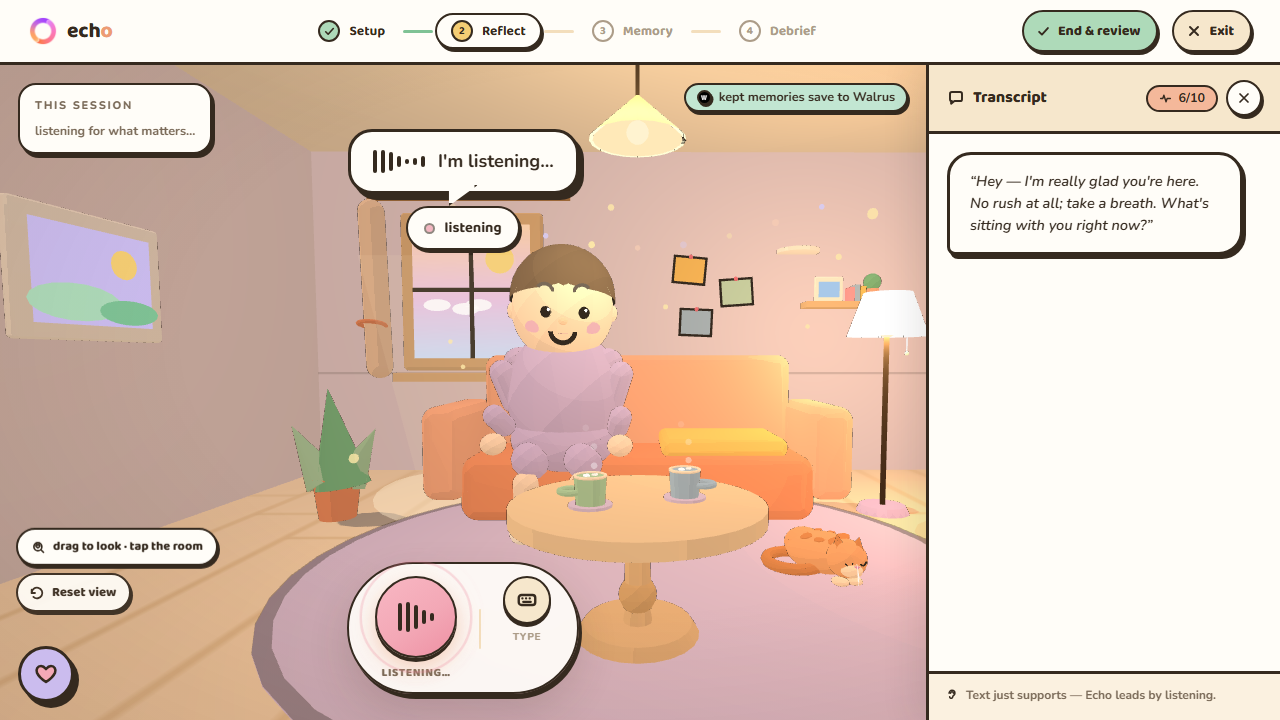
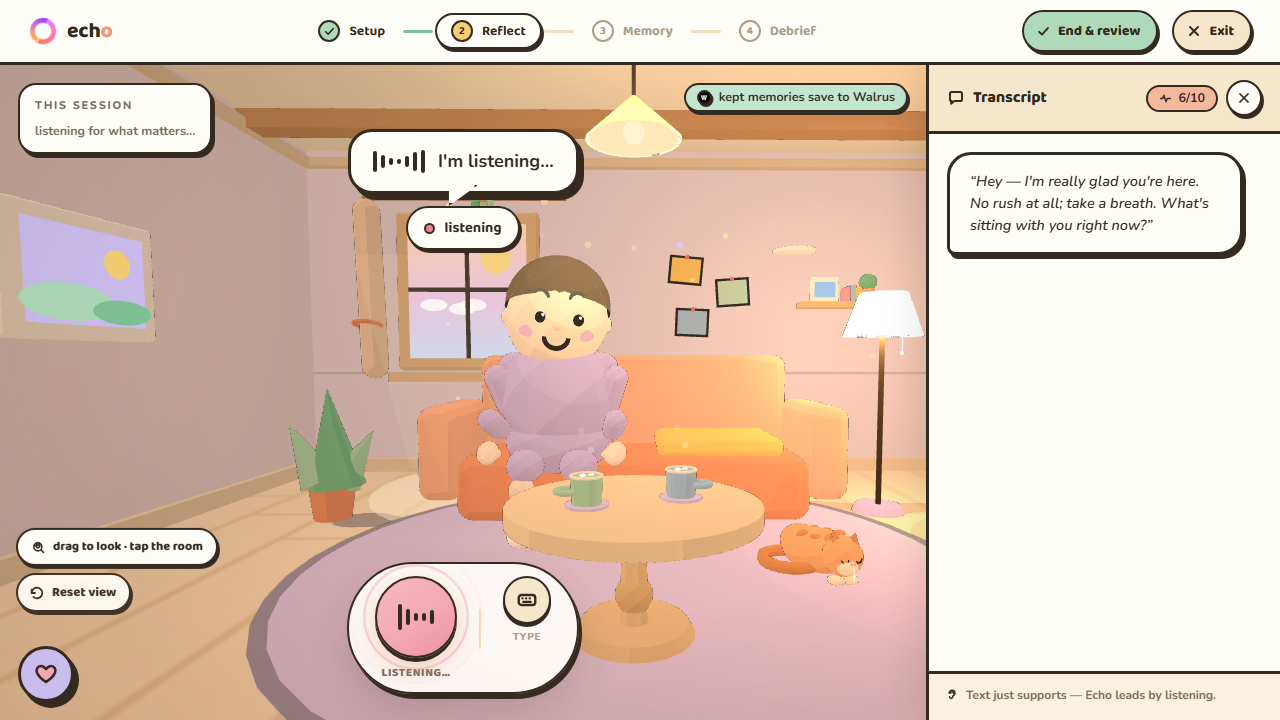
feat: room architecture + hand realism + calmer air
Hands are proper mitts now — oval palms with thumbs, rotated to rest
naturally on the knees at the end of the bent forearms. Air particles
halved and softened. The room gets real architecture: warm wooden ceiling
beams, crown molding, baseboards on every wall, framed art above the
fireplace mantel, a round mirror on the left wall, and a vine plant
hanging from a beam by the window. README gif/still regenerated.

diff --git a/components/reflection/ImmersiveRoom3D.tsx b/components/reflection/ImmersiveRoom3D.tsx
@@ -263,11 +263,18 @@ function Companion3D({ state }: { state: OrbState }) {
               <Toon color="#CBBCEE" />
               <Outlines thickness={0.012} color={INK} />
             </mesh>
-            <mesh position={[-0.08, -0.46, 0.34]} scale={[1, 0.82, 1.15]}>
-              <sphereGeometry args={[0.082, 14, 10]} />
-              <Toon color={skin} />
-              <Outlines thickness={0.011} color={INK} />
-            </mesh>
+            <group position={[-0.08, -0.49, 0.36]} rotation={[0.45, 0.15, 0]}>
+              <mesh scale={[0.82, 0.55, 1.25]}>
+                <sphereGeometry args={[0.085, 14, 10]} />
+                <Toon color={skin} />
+                <Outlines thickness={0.011} color={INK} />
+              </mesh>
+              <mesh position={[0.06, 0.005, 0.025]} scale={[0.8, 0.7, 0.9]}>
+                <sphereGeometry args={[0.034, 10, 8]} />
+                <Toon color={skin} />
+                <Outlines thickness={0.007} color={INK} />
+              </mesh>
+            </group>
           </group>
           {/* right arm — same anatomy, pivots at the shoulder to wave hello */}
           <group ref={waveArm} position={[0.32, 1.16, 0.02]}>
@@ -281,11 +288,18 @@ function Companion3D({ state }: { state: OrbState }) {
               <Toon color="#CBBCEE" />
               <Outlines thickness={0.012} color={INK} />
             </mesh>
-            <mesh position={[0.08, -0.46, 0.34]} scale={[1, 0.82, 1.15]}>
-              <sphereGeometry args={[0.082, 14, 10]} />
-              <Toon color={skin} />
-              <Outlines thickness={0.011} color={INK} />
-            </mesh>
+            <group position={[0.08, -0.49, 0.36]} rotation={[0.45, -0.15, 0]}>
+              <mesh scale={[0.82, 0.55, 1.25]}>
+                <sphereGeometry args={[0.085, 14, 10]} />
+                <Toon color={skin} />
+                <Outlines thickness={0.011} color={INK} />
+              </mesh>
+              <mesh position={[-0.06, 0.005, 0.025]} scale={[0.8, 0.7, 0.9]}>
+                <sphereGeometry args={[0.034, 10, 8]} />
+                <Toon color={skin} />
+                <Outlines thickness={0.007} color={INK} />
+              </mesh>
+            </group>
           </group>
           {/* legs — dangling over the couch edge, swinging gently */}
           <group ref={legs} position={[0, 0.62, 0.22]}>
@@ -559,6 +573,25 @@ function Fireplace() {
         <Toon color="#D9B583" />
         <Outlines thickness={0.022} color={INK} />
       </RoundedBox>
+      {/* framed art above the mantel */}
+      <group position={[0, 2.15, -0.08]}>
+        <RoundedBox args={[0.86, 0.66, 0.05]} radius={0.02}>
+          <Toon color="#FFFDF8" />
+          <Outlines thickness={0.014} color={INK} />
+        </RoundedBox>
+        <mesh position={[0, 0, 0.028]}>
+          <planeGeometry args={[0.72, 0.52]} />
+          <meshBasicMaterial color="#F3C9A8" />
+        </mesh>
+        <mesh position={[0.12, 0.1, 0.032]}>
+          <circleGeometry args={[0.085, 18]} />
+          <meshBasicMaterial color="#ED9C74" />
+        </mesh>
+        <mesh position={[-0.1, -0.13, 0.032]} scale={[2, 0.6, 1]}>
+          <circleGeometry args={[0.11, 18]} />
+          <meshBasicMaterial color="#CBBCEE" />
+        </mesh>
+      </group>
       {/* the opening */}
       <mesh position={[0, 0.55, 0.18]}>
         <boxGeometry args={[1.0, 0.78, 0.24]} />
@@ -1085,10 +1118,9 @@ function StringLights() {
 
 /* ---------------- ambience: floating light motes + mug steam ---------------- */
 const MOTES = [
-  // three dance inside the window light shaft
-  [-1.78, 1.5, -2.7], [-1.68, 1.0, -2.45], [-1.82, 0.55, -2.25],
-  [0.3, 1.5, -2.0], [1.4, 2.1, -1.2],
-  [2.0, 1.1, -0.4], [-1.2, 0.9, 0.4], [0.9, 1.7, 0.6], [-0.2, 2.3, -1.0], [1.7, 1.5, -2.6],
+  // a few dance in the window light shaft, a couple drift in the room
+  [-1.78, 1.5, -2.7], [-1.7, 0.9, -2.4],
+  [0.5, 1.8, -1.8], [1.6, 1.3, -0.8], [-0.6, 2.1, -0.6],
 ] as const;
 
 function Motes() {
@@ -1106,7 +1138,7 @@ function Motes() {
       {MOTES.map((p, i) => (
         <mesh key={i} ref={(el) => { refs.current[i] = el; }} position={[p[0], p[1], p[2]]}>
           <sphereGeometry args={[0.022, 8, 6]} />
-          <meshBasicMaterial color="#FFE9A8" transparent opacity={0.8} />
+          <meshBasicMaterial color="#FFE9A8" transparent opacity={0.5} />
         </mesh>
       ))}
     </group>
@@ -1227,6 +1259,61 @@ function RoomScene({ state }: { state: OrbState }) {
         <planeGeometry args={[12, 0.025]} />
         <meshBasicMaterial color={INK} transparent opacity={0.16} />
       </mesh>
+
+      {/* ── architecture: beams, crown molding, baseboards ── */}
+      {/* warm wooden ceiling beams */}
+      {[-2.3, -0.8, 0.9].map((bz, i) => (
+        <mesh key={'beam' + i} position={[0, 3.3, bz]} castShadow>
+          <boxGeometry args={[12, 0.16, 0.24]} />
+          <Toon color="#C89B6E" />
+          <Outlines thickness={0.03} color={INK} />
+        </mesh>
+      ))}
+      {/* crown molding where the walls meet the ceiling */}
+      <mesh position={[0, 3.26, -3.2]}><boxGeometry args={[12, 0.09, 0.1]} /><Toon color="#E8D4B8" /></mesh>
+      <mesh position={[-3.41, 3.26, 0]} rotation={[0, Math.PI / 2, 0]}><boxGeometry args={[12, 0.09, 0.1]} /><Toon color="#E8D4B8" /></mesh>
+      <mesh position={[3.41, 3.26, 0]} rotation={[0, Math.PI / 2, 0]}><boxGeometry args={[12, 0.09, 0.1]} /><Toon color="#E8D4B8" /></mesh>
+      {/* baseboards along the floor */}
+      <mesh position={[0, 0.07, -3.2]}><boxGeometry args={[12, 0.14, 0.06]} /><Toon color="#EFDCC0" /></mesh>
+      <mesh position={[-3.42, 0.07, 0]} rotation={[0, Math.PI / 2, 0]}><boxGeometry args={[12, 0.14, 0.06]} /><Toon color="#EFDCC0" /></mesh>
+      <mesh position={[3.42, 0.07, 0]} rotation={[0, Math.PI / 2, 0]}><boxGeometry args={[12, 0.14, 0.06]} /><Toon color="#EFDCC0" /></mesh>
+
+      {/* round mirror on the left wall */}
+      <group position={[-3.4, 1.95, 0.55]} rotation={[0, Math.PI / 2, 0]}>
+        <mesh rotation={[Math.PI / 2, 0, 0]}>
+          <cylinderGeometry args={[0.34, 0.34, 0.05, 28]} />
+          <Toon color="#C89B6E" />
+          <Outlines thickness={0.015} color={INK} />
+        </mesh>
+        <mesh position={[0, 0, 0.029]}>
+          <circleGeometry args={[0.27, 28]} />
+          <meshBasicMaterial color="#D7E4EE" />
+        </mesh>
+        <mesh position={[-0.08, 0.09, 0.032]} rotation={[0, 0, 0.7]} scale={[1, 0.35, 1]}>
+          <circleGeometry args={[0.1, 16]} />
+          <meshBasicMaterial color="#F2F8FC" />
+        </mesh>
+      </group>
+
+      {/* hanging vine from the beam near the window */}
+      <group position={[-1.35, 3.22, -2.3]}>
+        <mesh position={[0, -0.22, 0]}>
+          <cylinderGeometry args={[0.008, 0.008, 0.44, 6]} />
+          <Toon color="#8A6748" />
+        </mesh>
+        <mesh position={[0, -0.5, 0]}>
+          <cylinderGeometry args={[0.1, 0.075, 0.16, 12]} />
+          <Toon color="#ED9C74" />
+          <Outlines thickness={0.012} color={INK} />
+        </mesh>
+        {[0.5, 2.6, 4.4].map((rot, i) => (
+          <mesh key={i} position={[Math.cos(rot) * 0.08, -0.62 - i * 0.05, Math.sin(rot) * 0.08]} rotation={[Math.PI - 0.4, rot, 0]}>
+            <coneGeometry args={[0.05, 0.22 + i * 0.06, 7]} />
+            <Toon color={i % 2 ? '#7FC295' : '#AEDAB9'} />
+            <Outlines thickness={0.01} color={INK} />
+          </mesh>
+        ))}
+      </group>
 
       {/* window with sunset (back wall, left) */}
       <group position={[-1.75, 1.92, -3.2]}>